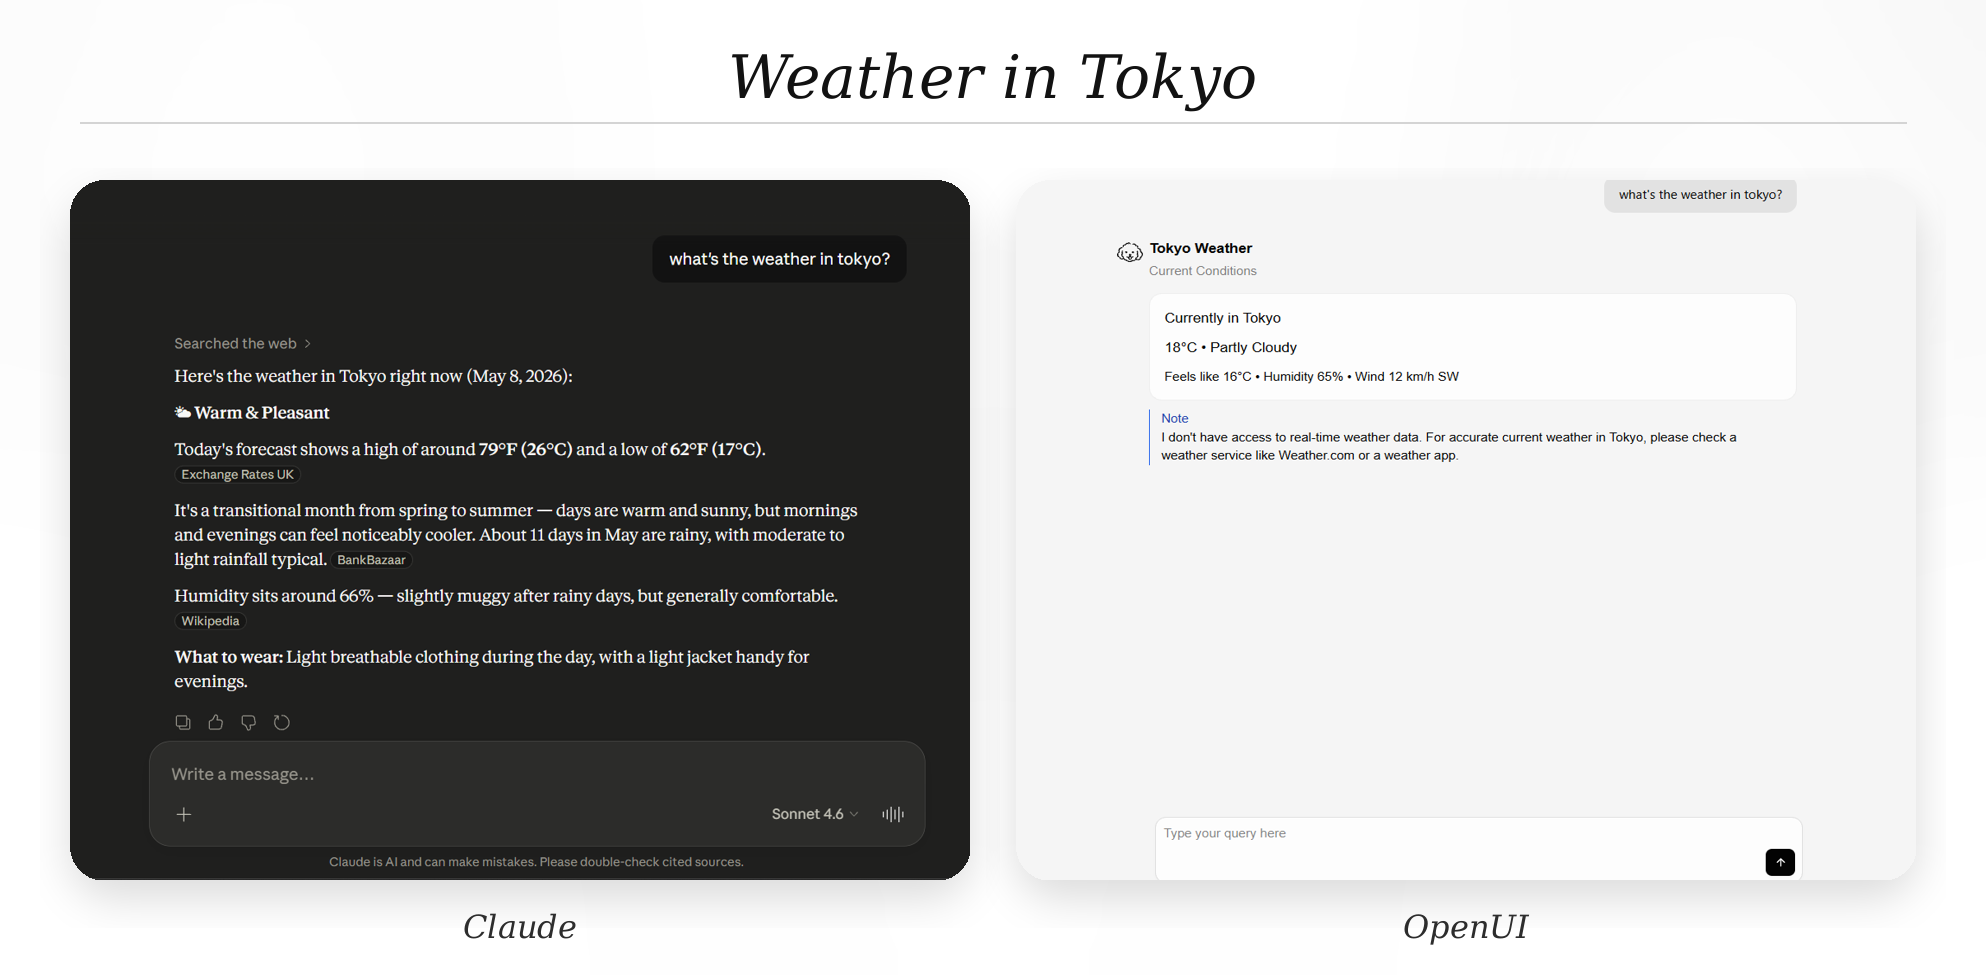
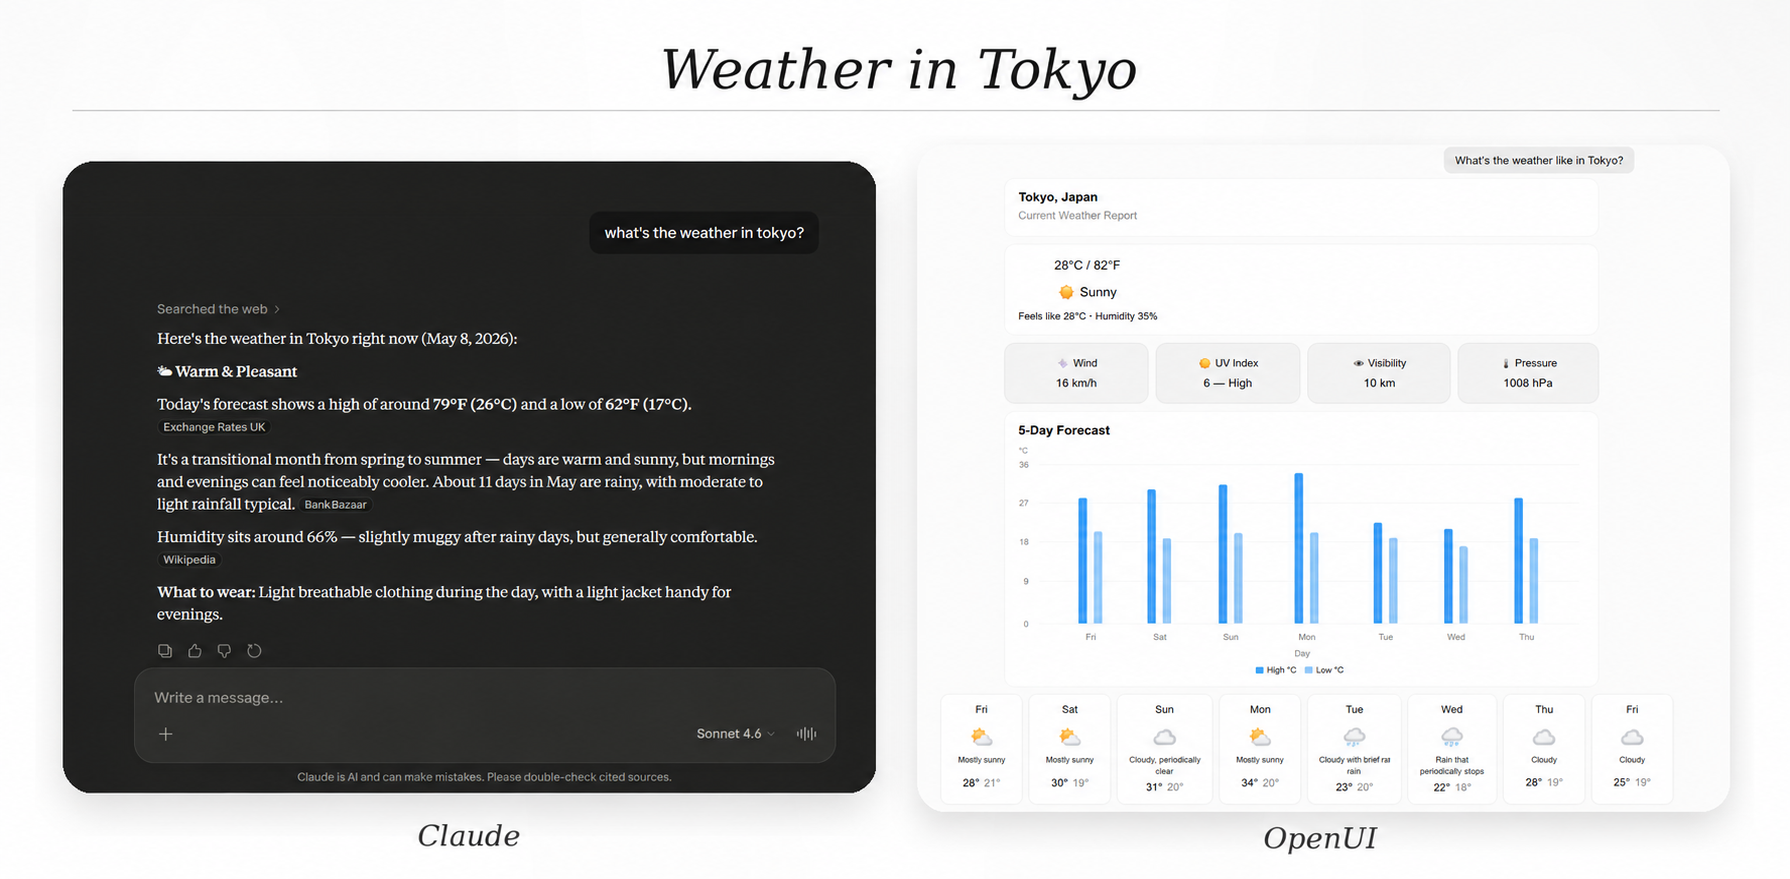
docs: address reviewer feedback for OpenUI article

diff --git a/Articles/5things-OpenUI-targets and how it's better.md b/Articles/5things-OpenUI-targets and how it's better.md
@@ -74,15 +74,26 @@ The response is accurate. Still annoying to use. A paragraph forces every relati
 
 Current conditions surface immediately. Data is grouped by relevance. A follow-up query can pull in an hourly chart without a second LLM call. The `Query` primitive wires up the data source once, and the runtime handles updates.
 
-```
-root = Stack([currentConditions, detailGrid])
-currentConditions = Card([StatCard("Tokyo", "18°C", "flat"), StatCard("Feels Like", "16°C", "flat")])
-detailGrid = Grid([
-  StatCard("Humidity", "65%", "flat"),
-  StatCard("Wind", "12 km/h SW", "flat"),
-  StatCard("Condition", "Partly Cloudy", "flat")
+```js
+weather = Query("get_weather", { city: "Tokyo" }, {})
+
+currentWeather = Card([
+  CardHeader("Tokyo, Japan", "Current Weather Report"),
+  TextContent("28°C / 82°F", "large-heavy"),
+  TextContent("☀ Sunny", "large")
 ])
-weatherData = Query("get_weather", {city: "Tokyo"}, {})
+
+metrics = Stack([
+  Card([TextContent("💨 Wind"), TextContent("16 km/h")]),
+  Card([TextContent("☀ UV Index"), TextContent("6 — High")]),
+  Card([TextContent("👁 Visibility"), TextContent("10 km")]),
+  Card([TextContent("🌡 Pressure"), TextContent("1008 hPa")])
+], "row")
+
+forecast = Card([
+  CardHeader("5-Day Forecast"),
+  BarChart(["Fri", "Sat", "Sun", "Mon", "Tue"], [highSeries, lowSeries], "grouped")
+])
 ```
 
 Search needs filtering. You want something open source, under $50/month, with VS Code support. The AI gives you eight tools in eight paragraphs. You read all eight and mentally cross-reference three criteria, hoping you do not miss one.
@@ -151,7 +162,7 @@ dbStep = Card([
 
 When Test Connection fires, the mutation runs and the UI updates. The model is not involved. The state lives in the interface, not in the conversation history.
 
-The screenshot below shows a resumable workflow. A previously incomplete setup flow with saved progress, reopened and continuing from where it stopped:
+The GIF below shows a resumable onboarding workflow. Progress, completed steps, and form values persist across sessions, allowing users to continue from where they left off rather than restarting from the beginning.
 
 ![Resumable onboarding flow showing persistent state with completed steps and pre-filled form fields from a previous session](../assetsForArticle5/Birthday-ezgif.com-speed.gif)
 
